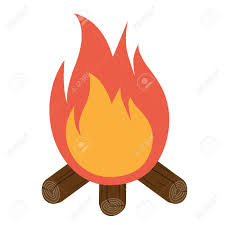
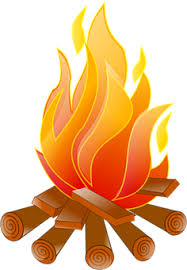
added alert messages to profile create and profile edit forms, changed out user card images

diff --git a/src/components/user/ProfileEditForm.js b/src/components/user/ProfileEditForm.js
@@ -117,6 +117,7 @@ class ProfileEditForm extends Component {
     };
     this.props
       .updateUser(editedBuyer)
+      .then(alert("Your profile has been updated"))
       .then(() => this.props.history.push("/sellers"));
   };
 
@@ -144,6 +145,7 @@ class ProfileEditForm extends Component {
     };
     this.props
       .editSeller(editedSeller, editedBuyer)
+      .then(alert("Your profile has been updated"))
       .then(() => this.props.history.push("/buyers"));
   };
 
@@ -153,7 +155,7 @@ class ProfileEditForm extends Component {
       return (
         <Form>
           <FormText color="dark">
-            <h2>Edit your buyer profile</h2>
+            <h2>Edit your burner profile</h2>
           </FormText>
           <FormGroup>
             <Label className="edit-user-name" color="dark">
@@ -233,7 +235,7 @@ class ProfileEditForm extends Component {
             onClick={this.updateBuyerProfile}
             className="btn btn-primary"
           >
-            Update Buyer Profile
+            Edit Your Profile
           </Button>
           <Button
             onClick={() => this.props.deleteUserProfile(this.state.userId)}
@@ -247,7 +249,7 @@ class ProfileEditForm extends Component {
       return (
         <Form>
           <FormText color="dark">
-            <h2>Edit your seller profile</h2>
+            <h2>Edit your chopper profile</h2>
           </FormText>
           <FormGroup>
             <Label className="edit-user-name" color="dark">
@@ -417,7 +419,7 @@ class ProfileEditForm extends Component {
             onClick={this.updateSellerProfile}
             className="btn btn-primary"
           >
-            Edit Seller Profile
+            Edit Your Profile
           </Button>
           <Button
             onClick={() => {this.props.deleteSellerProfile(this.state.sellerProfileId)}}

diff --git a/src/components/user/ProfileForm.js b/src/components/user/ProfileForm.js
@@ -101,6 +101,7 @@ class ProfileForm extends Component {
     };
     this.props
       .updateUser(editedBuyer)
+      .then(alert("Your profile has been updated"))
       .then(() => this.props.history.push("/sellers"));
   };
 
@@ -127,6 +128,7 @@ class ProfileForm extends Component {
     };
     this.props
       .updateSeller(editedSeller, editedBuyer)
+      .then(alert("Your profile has been updated"))
       .then(() => this.props.history.push("/buyers"));
   };
 
@@ -220,10 +222,11 @@ class ProfileForm extends Component {
             type="submit"
             onClick={this.updateBuyerProfile}
             className="btn btn-primary"
+
           >
             Create Buyer Profile
           </Button>
-          alert("Your profile has been created")
+
         </Form>
       );
     } else {
@@ -254,7 +257,7 @@ class ProfileForm extends Component {
               Phone Number
             </Label>
             <Input
-              type="tel"
+              type="text"
               required
               className="phonenumber-to-edit"
               name="user-phonenumber"
@@ -387,15 +390,6 @@ class ProfileForm extends Component {
               />
               No
             </Label>
-          </FormGroup>
-          <FormGroup>
-            <Label className="profile-photo">Profile Photo (optional)</Label>
-            <Input
-              type="file"
-              name="file"
-              id="profile-photo"
-              onChange={this.handleFieldChange}
-            />
           </FormGroup>
           <Button
             type="submit"
